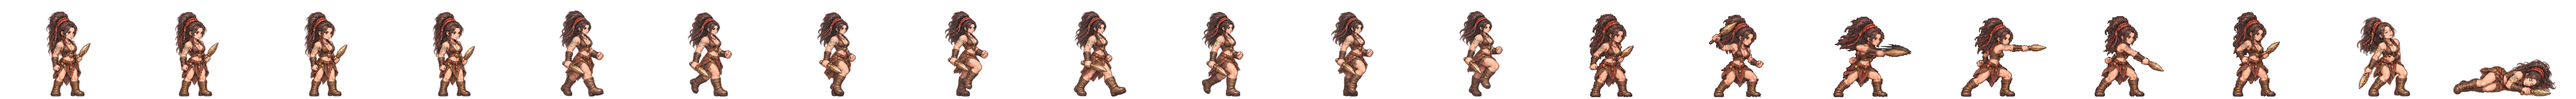
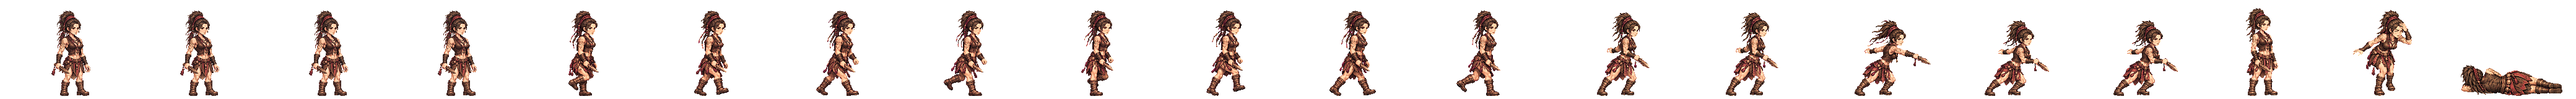
조문 이랑 새 전투 띠를 게임에 넣음(서기·걷기·단검 찌르기 여덟 칸·쓰러짐·칼끝 눌러 보기·맞음 네 칸)
- 내려베기 a 판은 그림 도구가 거절 → b 판 넷으로 여덟 칸(거둔 칸을 당김으로)
- 하네스: 공격 묶음을 서기에 잇는 기준이 맨 끝 칸이라 맞음 칸이 붙은 장수는 넓게 선 칸으로 쟀다 → 공격 끝 칸으로
- regrid-api: 그림 API 가 서기 견본까지 다시 그려 사람이 다섯인 판에서 견본을 맞음 첫 칸으로 넣던 것 → 왼쪽 위 견본을 뺀다
- 다섯째 묶음 넷(소금비·바람·별)의 하네스 줄을 미리 더함

Claude-Session: https://claude.ai/code/session_01TRiuN7s6aDfSnaHxrkctmU

diff --git a/src/realm/data/spritePx.ts b/src/realm/data/spritePx.ts
@@ -1,3 +1,3 @@
 /** public/realm/anim-px/manifest.json 의 사본 — tools/sprite-normalize.mjs 가 만든다 (손으로 고치지 말 것). 칸 [가로, 세로] · feet = 발 줄(칸 위에서 y) · bodyPx = 서 있는 몸 키 */
 import { expandManifest } from './sprite-manifest.ts'
-export const SPRITE_PX: Readonly<Record<string, { readonly cell: readonly [number, number]; readonly feet: number; readonly bodyPx: number; readonly kind: 'general' | 'soldier' | 'folk' | 'crowd'; readonly cells: number }>> = expandManifest<{ readonly cell: readonly [number, number]; readonly feet: number; readonly bodyPx: number; readonly kind: 'general' | 'soldier' | 'folk' | 'crowd'; readonly cells: number }>([{"cell":[166,128],"feet":126,"bodyPx":124,"kind":"soldier","cells":20},{"cell":[116,128],"feet":126,"bodyPx":117,"kind":"soldier","cells":20},{"cell":[127,128],"feet":126,"bodyPx":116,"kind":"soldier","cells":20},{"cell":[269,128],"feet":126,"bodyPx":126,"kind":"soldier","cells":20},{"cell":[503,128],"feet":126,"bodyPx":127,"kind":"soldier","cells":20},{"cell":[614,128],"feet":126,"bodyPx":126,"kind":"soldier","cells":20},{"cell":[200,160],"feet":156,"bodyPx":138,"kind":"general","cells":20},{"cell":[208,160],"feet":155,"bodyPx":138,"kind":"general","cells":20},{"cell":[208,160],"feet":154,"bodyPx":138,"kind":"general","cells":20},{"cell":[304,160],"feet":155,"bodyPx":135,"kind":"general","cells":20},{"cell":[224,160],"feet":156,"bodyPx":139,"kind":"general","cells":20},{"cell":[184,160],"feet":156,"bodyPx":138,"kind":"general","cells":20},{"cell":[208,160],"feet":154,"bodyPx":136,"kind":"general","cells":20},{"cell":[240,160],"feet":156,"bodyPx":138,"kind":"general","cells":20},{"cell":[232,160],"feet":156,"bodyPx":138,"kind":"general","cells":20},{"cell":[208,160],"feet":156,"bodyPx":138,"kind":"general","cells":20},{"cell":[192,160],"feet":156,"bodyPx":138,"kind":"general","cells":20},{"cell":[168,160],"feet":156,"bodyPx":124,"kind":"general","cells":20},{"cell":[216,160],"feet":156,"bodyPx":130,"kind":"general","cells":20},{"cell":[200,160],"feet":156,"bodyPx":116,"kind":"general","cells":20},{"cell":[200,160],"feet":156,"bodyPx":135,"kind":"general","cells":20},{"cell":[280,160],"feet":156,"bodyPx":138,"kind":"general","cells":20},{"cell":[232,160],"feet":155,"bodyPx":138,"kind":"general","cells":20},{"cell":[232,160],"feet":156,"bodyPx":134,"kind":"general","cells":20},{"cell":[144,160],"feet":156,"bodyPx":70,"kind":"general","cells":20},{"cell":[208,160],"feet":156,"bodyPx":70,"kind":"general","cells":20},{"cell":[192,160],"feet":156,"bodyPx":70,"kind":"general","cells":20},{"cell":[240,160],"feet":155,"bodyPx":138,"kind":"general","cells":20},{"cell":[160,160],"feet":156,"bodyPx":135,"kind":"general","cells":20},{"cell":[192,160],"feet":156,"bodyPx":128,"kind":"general","cells":20},{"cell":[224,160],"feet":155,"bodyPx":138,"kind":"general","cells":20},{"cell":[232,160],"feet":156,"bodyPx":139,"kind":"general","cells":20},{"cell":[216,160],"feet":156,"bodyPx":138,"kind":"general","cells":20},{"cell":[208,160],"feet":156,"bodyPx":134,"kind":"general","cells":20},{"cell":[176,160],"feet":156,"bodyPx":130,"kind":"general","cells":20},{"cell":[248,160],"feet":156,"bodyPx":138,"kind":"general","cells":20},{"cell":[248,160],"feet":155,"bodyPx":138,"kind":"general","cells":20},{"cell":[192,160],"feet":155,"bodyPx":138,"kind":"general","cells":20},{"cell":[192,160],"feet":156,"bodyPx":124,"kind":"general","cells":20},{"cell":[208,160],"feet":154,"bodyPx":131,"kind":"general","cells":20},{"cell":[256,160],"feet":156,"bodyPx":138,"kind":"general","cells":20},{"cell":[232,160],"feet":156,"bodyPx":73,"kind":"general","cells":20},{"cell":[256,160],"feet":155,"bodyPx":138,"kind":"general","cells":20},{"cell":[264,160],"feet":156,"bodyPx":138,"kind":"general","cells":20},{"cell":[224,160],"feet":156,"bodyPx":138,"kind":"general","cells":20},{"cell":[224,160],"feet":156,"bodyPx":128,"kind":"general","cells":20},{"cell":[176,160],"feet":156,"bodyPx":129,"kind":"general","cells":20},{"cell":[208,160],"feet":154,"bodyPx":139,"kind":"general","cells":20},{"cell":[208,160],"feet":156,"bodyPx":132,"kind":"general","cells":20},{"cell":[216,160],"feet":155,"bodyPx":138,"kind":"general","cells":20},{"cell":[184,160],"feet":156,"bodyPx":122,"kind":"general","cells":20},{"cell":[176,160],"feet":156,"bodyPx":138,"kind":"general","cells":20},{"cell":[280,160],"feet":155,"bodyPx":133,"kind":"general","cells":20},{"cell":[176,160],"feet":156,"bodyPx":70,"kind":"general","cells":20},{"cell":[186,128],"feet":126,"bodyPx":127,"kind":"soldier","cells":20},{"cell":[298,128],"feet":126,"bodyPx":126,"kind":"soldier","cells":20},{"cell":[82,128],"feet":126,"bodyPx":114,"kind":"folk","cells":8},{"cell":[134,128],"feet":126,"bodyPx":119,"kind":"soldier","cells":20},{"cell":[380,128],"feet":126,"bodyPx":124,"kind":"soldier","cells":20},{"cell":[114,128],"feet":126,"bodyPx":115,"kind":"soldier","cells":20},{"cell":[122,128],"feet":126,"bodyPx":114,"kind":"soldier","cells":20},{"cell":[254,128],"feet":126,"bodyPx":128,"kind":"soldier","cells":20},{"cell":[438,128],"feet":126,"bodyPx":126,"kind":"soldier","cells":20},{"cell":[88,128],"feet":126,"bodyPx":113,"kind":"folk","cells":8},{"cell":[100,128],"feet":126,"bodyPx":115,"kind":"folk","cells":8},{"cell":[108,128],"feet":126,"bodyPx":115,"kind":"folk","cells":8},{"cell":[63,128],"feet":126,"bodyPx":113,"kind":"folk","cells":8},{"cell":[69,96],"feet":96,"bodyPx":96,"kind":"crowd","cells":1},{"cell":[54,96],"feet":96,"bodyPx":96,"kind":"crowd","cells":1},{"cell":[47,96],"feet":96,"bodyPx":96,"kind":"crowd","cells":1},{"cell":[49,96],"feet":96,"bodyPx":96,"kind":"crowd","cells":1},{"cell":[57,96],"feet":96,"bodyPx":96,"kind":"crowd","cells":1},{"cell":[55,96],"feet":96,"bodyPx":96,"kind":"crowd","cells":1},{"cell":[45,96],"feet":96,"bodyPx":96,"kind":"crowd","cells":1},{"cell":[53,96],"feet":96,"bodyPx":96,"kind":"crowd","cells":1},{"cell":[64,96],"feet":96,"bodyPx":96,"kind":"crowd","cells":1},{"cell":[184,160],"feet":156,"bodyPx":124,"kind":"general","cells":20},{"cell":[184,160],"feet":156,"bodyPx":134,"kind":"general","cells":20},{"cell":[224,160],"feet":156,"bodyPx":133,"kind":"general","cells":20},{"cell":[192,160],"feet":156,"bodyPx":135,"kind":"general","cells":20},{"cell":[184,160],"feet":156,"bodyPx":137,"kind":"general","cells":20},{"cell":[216,160],"feet":156,"bodyPx":134,"kind":"general","cells":20},{"cell":[216,160],"feet":156,"bodyPx":132,"kind":"general","cells":20},{"cell":[288,160],"feet":156,"bodyPx":138,"kind":"general","cells":20},{"cell":[192,160],"feet":156,"bodyPx":118,"kind":"general","cells":20},{"cell":[208,160],"feet":154,"bodyPx":134,"kind":"general","cells":20},{"cell":[192,160],"feet":157,"bodyPx":139,"kind":"general","cells":20},{"cell":[184,160],"feet":156,"bodyPx":128,"kind":"general","cells":20},{"cell":[240,160],"feet":156,"bodyPx":128,"kind":"general","cells":20},{"cell":[184,160],"feet":156,"bodyPx":132,"kind":"general","cells":20},{"cell":[208,160],"feet":156,"bodyPx":123,"kind":"general","cells":20},{"cell":[208,160],"feet":154,"bodyPx":137,"kind":"general","cells":20},{"cell":[176,160],"feet":156,"bodyPx":116,"kind":"general","cells":20},{"cell":[272,160],"feet":156,"bodyPx":138,"kind":"general","cells":20},{"cell":[176,160],"feet":156,"bodyPx":122,"kind":"general","cells":20},{"cell":[232,160],"feet":156,"bodyPx":127,"kind":"general","cells":20},{"cell":[168,160],"feet":156,"bodyPx":138,"kind":"general","cells":20},{"cell":[176,160],"feet":156,"bodyPx":137,"kind":"general","cells":20},{"cell":[184,160],"feet":156,"bodyPx":133,"kind":"general","cells":20}],[["axe",0],["bandit-chief",1],["bandit-club",2],["boat",3],["bow",4],["crossbow",5],["gen-adogan",6],["gen-alpyeong",7],["gen-ara",8],["gen-areum",8],["gen-aryeong",9],["gen-bakdal",6],["gen-baram",10],["gen-bdanbi",11],["gen-beom",12],["gen-beombal",8],["gen-beomi",13],["gen-bira",14],["gen-biryu",15],["gen-budeul",8],["gen-byeol",16],["gen-daemusin",17],["gen-daeso",18],["gen-dallae2",11],["gen-dalli",11],["gen-damul",19],["gen-danbi",15],["gen-dangung",16],["gen-darae",20],["gen-dokmudeom",7],["gen-duman",21],["gen-eomni",22],["gen-eureum",23],["gen-g-bow",24],["gen-g-spear",25],["gen-g-sword",26],["gen-gaennae",6],["gen-gamsil",27],["gen-gaon",28],["gen-geota",15],["gen-geumbawi",11],["gen-geumha",29],["gen-goeun",15],["gen-gom",30],["gen-gomok",15],["gen-gureum",27],["gen-guryema",16],["gen-gwaeyu",14],["gen-haebi",8],["gen-haedal",6],["gen-haesol",31],["gen-halla",7],["gen-heo",8],["gen-hneoul",11],["gen-hogong",32],["gen-hojin",15],["gen-horselord",33],["gen-hwalmi",34],["gen-hyeokgeose",16],["gen-hyeopbo",6],["gen-irang",15],["gen-jibaekho",35],["gen-jinha",36],["gen-jita",37],["gen-jumong",38],["gen-keundol",7],["gen-maehwa",39],["gen-maenun",16],["gen-malgalgi",40],["gen-mari",13],["gen-maro",35],["gen-maryeo",15],["gen-mdallae",31],["gen-mir",6],["gen-mount",41],["gen-mulbeom",42],["gen-mulsae",32],["gen-musoe",32],["gen-noeul",8],["gen-nuri",43],["gen-ocheongan",44],["gen-odi",8],["gen-odogan",6],["gen-ogan",16],["gen-oi",45],["gen-olddaeso",23],["gen-onjo",46],["gen-pidogan",15],["gen-sagong",47],["gen-sdallae",6],["gen-sincheongan",32],["gen-singwigan",32],["gen-sinneoul",8],["gen-sobeol",22],["gen-soebi",6],["gen-soebo",48],["gen-soenun",35],["gen-sogeumbi",49],["gen-songbi",44],["gen-songyang",50],["gen-sori",51],["gen-soseono",52],["gen-suro",16],["gen-tahae",6],["gen-tneoul",8],["gen-w-bow",24],["gen-w-spear",53],["gen-waechief",15],["gen-wan",32],["gen-yeodogan",15],["gen-yucheongan",15],["gen-yusugan",35],["horse",54],["marine",55],["migrant",56],["militia",57],["pike",58],["pirate-captain",59],["pirate-sword",60],["shield",61],["spear",62],["villager-builder",63],["villager-farmer",64],["villager-porter",65],["villager-woman",66],["crowd-b1",67],["crowd-b2",68],["crowd-b3",69],["crowd-b4",70],["crowd-b5",71],["crowd-b6",72],["crowd-f1",67],["crowd-f2",72],["crowd-f3",73],["crowd-f4",74],["crowd-f5",67],["crowd-f6",75],["gen-dalbit",15],["gen-base-g-07-drunk-warrior",16],["gen-base-g-40-anya-adan",15],["gen-base-w-13-young-archer",8],["gen-base-g-03-sea-trader",13],["gen-base-w-10-pirate-captain",47],["gen-base-w-64-miri-dallae",47],["gen-base-g-41-goja-bau",13],["gen-base-g-42-dokro-garam",43],["gen-base-g-09-farmer-conscript",32],["gen-base-w-02-goguryeo-lady",32],["gen-base-w-17-mahan-pearl-diver",8],["gen-base-g-17-saro-isageum",48],["gen-base-g-18-daegaya-king",76],["gen-base-g-35-dabeol-dalgu",15],["gen-base-g-19-sabeol-veteran",32],["gen-base-w-23-usisan-whale-queen",8],["gen-base-g-36-gammun-gamdol",44],["gen-base-g-20-samul-sea-lord",40],["gen-base-g-37-eumjeup-jeup",11],["gen-base-g-38-chopal-palmae",16],["gen-base-w-75-daegaya-soemoe",16],["gen-base-g-45-dabeol-deulgae",11],["gen-base-g-04-jinhan-giant",15],["gen-base-g-08-veteran",15],["gen-base-w-18-jinhan-salt-widow",8],["gen-base-w-12-court-dancer",77],["gen-base-w-83-gyeonji-beodeul",78],["gen-base-w-05-baekje-queen",79],["gen-base-w-21-baekje-court-dancer",11],["gen-base-g-01-master-smith",80],["gen-base-g-93-jomun-solgae",34],["gen-base-g-57-bihwa-neup",13],["gen-base-w-72-eumjeup-beol",8],["gen-base-w-102-garak-dana",47],["gen-base-g-68-baekje-onnuri",15],["gen-base-w-27-mokji-jinha",6],["gen-base-g-22-ungcheon-gomnae",6],["gen-base-g-23-sangdang-soedal",15],["gen-base-g-24-wansan-onsan",6],["gen-base-g-25-balla-keunmoe",32],["gen-base-g-61-heomcheuk-bawi",32],["gen-base-g-88-wander-soeul",44],["gen-base-w-14-feast-spy",6],["gen-base-g-12-silla-youth",81],["gen-base-w-08-mahan-warrior",8],["gen-base-g-62-beonye-hanul",13],["gen-base-g-63-heomcheuk-beogeum",15],["gen-base-g-84-wander-seoneul",15],["gen-base-w-50-siljik-mulga",32],["gen-base-g-46-uga-nureongso",32],["gen-base-w-80-usan-gangchi",13],["gen-base-g-47-guga-sanyanggae",32],["gen-base-w-76-gampyeong-baetsagong",8],["gen-base-g-05-mahan-chieftain",82],["gen-base-g-58-usan-uhae",15],["gen-base-g-27-maek-maekdol",15],["gen-base-w-53-hwanna-gabi",47],["gen-base-w-29-golpo-janmul",35],["gen-base-g-53-baekje-haeru",6],["gen-base-w-71-yeonna-neoul",13],["gen-base-w-79-yangmaek-solmae",32],["gen-base-w-34-chopal-deulme",8],["gen-base-g-44-maga-malgup",83],["gen-base-w-31-dabeol-dalbit",47],["gen-base-g-51-biryuna-mulgyeol",44],["gen-base-g-48-gwanna-musoe",15],["gen-base-g-32-uga-sodu",14],["gen-base-g-49-goguryeo-sona",84],["gen-base-g-30-gwanna-soemoe",44],["gen-base-g-52-tamna-oreum",11],["gen-base-g-29-yeonna-myeongsol",38],["gen-base-w-56-dongokjeo-sogeum",85],["gen-base-g-54-mokji-mahan",14],["gen-base-g-33-jeoga-metdol",16],["gen-base-w-36-baekje-maena",8],["gen-base-w-38-sangdang-bulmae",6],["gen-base-w-39-gosaburi-galmae",86],["gen-base-w-40-mujin-munui",48],["gen-base-w-41-hwanna-beodeul",87],["gen-base-w-43-uga-nuri",40],["gen-base-w-45-tamna-oreumbi",11],["gen-base-g-60-golbeol-golgae",11],["gen-base-g-61-apdok-ap",32],["gen-base-g-62-gammun-gamnamu",6],["gen-base-g-63-chopal-yeoul",35],["gen-base-g-64-michuhol-sogeumkkun",13],["gen-base-g-65-sangdang-soemangchi",44],["gen-base-g-66-geonma-malbalgup",88],["gen-base-g-67-gosaburi-buri",89],["gen-base-g-68-mujin-bitgoeul",11],["gen-base-g-69-goryong-yong",44],["gen-base-g-70-siljik-pado",13],["gen-base-w-81-byeokjin-byeolbit",14],["gen-base-w-46-geonma-maru",35],["gen-base-w-48-mujin-mudeung",13],["gen-base-g-26-gampyeong-gaetbeol",14],["gen-base-g-60-eupcha-hangyeol",90],["gen-base-g-15-shaman-man",32],["gen-base-g-85-wander-ure",35],["gen-base-g-43-hwanna-amnok",15],["gen-base-g-50-bullae-gwaha",79],["gen-base-g-55-saro-bakdal",15],["gen-base-g-56-haseulla-gwahama",6],["gen-base-w-06-buyeo-huntress",91],["gen-base-w-22-dongye-tiger-huntress",8],["gen-base-w-25-bihwa-priestess",32],["gen-base-w-24-apdok-queen",11],["gen-base-w-61-iseo-sinae",15],["gen-base-w-26-iseo-tomboy-general",8],["gen-base-g-59-yangmaek-maekson",92],["gen-aw1-haebi",44],["gen-aw1-soseono",93],["gen-aw1-gamsil",11],["gen-aw1-mir",51],["gen-aw1-dangung",6],["gen-aw1-ara",44],["gen-aw1-jumong",94],["gen-aw1-onjo",95],["gen-aw1-base-w-83-gyeonji-beodeul",16],["gen-aw1-heo",43],["gen-aw1-base-g-38-chopal-palmae",6],["gen-aw1-base-w-25-bihwa-priestess",77],["gen-aw1-sori",96],["gen-aw1-gomok",6],["gen-aw1-irang",16],["gen-aw1-budeul",96],["gen-aw1-gom",13],["gen-aw1-sdallae",6],["gen-aw1-base-w-13-young-archer",6],["gen-aw1-base-w-36-baekje-maena",97],["gen-aw1-base-g-09-farmer-conscript",43],["gen-aw1-base-w-02-goguryeo-lady",98],["gen-aw1-haedal",11],["gen-aw1-hogong",6],["gen-aw1-maehwa",51],["gen-aw1-base-w-06-buyeo-huntress",14],["gen-aw1-base-w-08-mahan-warrior",44],["gen-aw1-base-w-29-golpo-janmul",44],["gen-aw1-base-w-31-dabeol-dalbit",16],["gen-aw1-base-w-38-sangdang-bulmae",96],["gen-aw1-bira",32],["gen-aw1-base-w-53-hwanna-gabi",96],["gen-aw1-base-w-56-dongokjeo-sogeum",51],["gen-aw1-base-w-72-eumjeup-beol",16],["gen-aw1-bdanbi",96],["gen-aw1-beom",11],["gen-aw1-beombal",11],["gen-aw1-byeol",16],["gen-aw1-dalli",51],["gen-aw1-malgalgi",35],["gen-aw1-sincheongan",32]])
+export const SPRITE_PX: Readonly<Record<string, { readonly cell: readonly [number, number]; readonly feet: number; readonly bodyPx: number; readonly kind: 'general' | 'soldier' | 'folk' | 'crowd'; readonly cells: number }>> = expandManifest<{ readonly cell: readonly [number, number]; readonly feet: number; readonly bodyPx: number; readonly kind: 'general' | 'soldier' | 'folk' | 'crowd'; readonly cells: number }>([{"cell":[166,128],"feet":126,"bodyPx":124,"kind":"soldier","cells":20},{"cell":[116,128],"feet":126,"bodyPx":117,"kind":"soldier","cells":20},{"cell":[127,128],"feet":126,"bodyPx":116,"kind":"soldier","cells":20},{"cell":[269,128],"feet":126,"bodyPx":126,"kind":"soldier","cells":20},{"cell":[503,128],"feet":126,"bodyPx":127,"kind":"soldier","cells":20},{"cell":[614,128],"feet":126,"bodyPx":126,"kind":"soldier","cells":20},{"cell":[200,160],"feet":156,"bodyPx":138,"kind":"general","cells":20},{"cell":[208,160],"feet":155,"bodyPx":138,"kind":"general","cells":20},{"cell":[208,160],"feet":154,"bodyPx":138,"kind":"general","cells":20},{"cell":[304,160],"feet":155,"bodyPx":135,"kind":"general","cells":20},{"cell":[224,160],"feet":156,"bodyPx":139,"kind":"general","cells":20},{"cell":[184,160],"feet":156,"bodyPx":138,"kind":"general","cells":20},{"cell":[208,160],"feet":154,"bodyPx":136,"kind":"general","cells":20},{"cell":[240,160],"feet":156,"bodyPx":138,"kind":"general","cells":20},{"cell":[232,160],"feet":156,"bodyPx":138,"kind":"general","cells":20},{"cell":[208,160],"feet":156,"bodyPx":138,"kind":"general","cells":20},{"cell":[192,160],"feet":156,"bodyPx":138,"kind":"general","cells":20},{"cell":[168,160],"feet":156,"bodyPx":124,"kind":"general","cells":20},{"cell":[216,160],"feet":156,"bodyPx":130,"kind":"general","cells":20},{"cell":[200,160],"feet":156,"bodyPx":116,"kind":"general","cells":20},{"cell":[200,160],"feet":156,"bodyPx":135,"kind":"general","cells":20},{"cell":[280,160],"feet":156,"bodyPx":138,"kind":"general","cells":20},{"cell":[232,160],"feet":155,"bodyPx":138,"kind":"general","cells":20},{"cell":[232,160],"feet":156,"bodyPx":134,"kind":"general","cells":20},{"cell":[144,160],"feet":156,"bodyPx":70,"kind":"general","cells":20},{"cell":[208,160],"feet":156,"bodyPx":70,"kind":"general","cells":20},{"cell":[192,160],"feet":156,"bodyPx":70,"kind":"general","cells":20},{"cell":[240,160],"feet":155,"bodyPx":138,"kind":"general","cells":20},{"cell":[160,160],"feet":156,"bodyPx":135,"kind":"general","cells":20},{"cell":[192,160],"feet":156,"bodyPx":128,"kind":"general","cells":20},{"cell":[224,160],"feet":155,"bodyPx":138,"kind":"general","cells":20},{"cell":[232,160],"feet":156,"bodyPx":139,"kind":"general","cells":20},{"cell":[216,160],"feet":156,"bodyPx":138,"kind":"general","cells":20},{"cell":[208,160],"feet":156,"bodyPx":134,"kind":"general","cells":20},{"cell":[176,160],"feet":156,"bodyPx":130,"kind":"general","cells":20},{"cell":[248,160],"feet":156,"bodyPx":138,"kind":"general","cells":20},{"cell":[248,160],"feet":155,"bodyPx":138,"kind":"general","cells":20},{"cell":[192,160],"feet":155,"bodyPx":138,"kind":"general","cells":20},{"cell":[192,160],"feet":156,"bodyPx":124,"kind":"general","cells":20},{"cell":[208,160],"feet":154,"bodyPx":131,"kind":"general","cells":20},{"cell":[256,160],"feet":156,"bodyPx":138,"kind":"general","cells":20},{"cell":[232,160],"feet":156,"bodyPx":73,"kind":"general","cells":20},{"cell":[256,160],"feet":155,"bodyPx":138,"kind":"general","cells":20},{"cell":[264,160],"feet":156,"bodyPx":138,"kind":"general","cells":20},{"cell":[224,160],"feet":156,"bodyPx":138,"kind":"general","cells":20},{"cell":[224,160],"feet":156,"bodyPx":128,"kind":"general","cells":20},{"cell":[176,160],"feet":156,"bodyPx":129,"kind":"general","cells":20},{"cell":[208,160],"feet":154,"bodyPx":139,"kind":"general","cells":20},{"cell":[208,160],"feet":156,"bodyPx":132,"kind":"general","cells":20},{"cell":[216,160],"feet":155,"bodyPx":138,"kind":"general","cells":20},{"cell":[184,160],"feet":156,"bodyPx":122,"kind":"general","cells":20},{"cell":[176,160],"feet":156,"bodyPx":138,"kind":"general","cells":20},{"cell":[280,160],"feet":155,"bodyPx":133,"kind":"general","cells":20},{"cell":[176,160],"feet":156,"bodyPx":70,"kind":"general","cells":20},{"cell":[186,128],"feet":126,"bodyPx":127,"kind":"soldier","cells":20},{"cell":[298,128],"feet":126,"bodyPx":126,"kind":"soldier","cells":20},{"cell":[82,128],"feet":126,"bodyPx":114,"kind":"folk","cells":8},{"cell":[134,128],"feet":126,"bodyPx":119,"kind":"soldier","cells":20},{"cell":[380,128],"feet":126,"bodyPx":124,"kind":"soldier","cells":20},{"cell":[114,128],"feet":126,"bodyPx":115,"kind":"soldier","cells":20},{"cell":[122,128],"feet":126,"bodyPx":114,"kind":"soldier","cells":20},{"cell":[254,128],"feet":126,"bodyPx":128,"kind":"soldier","cells":20},{"cell":[438,128],"feet":126,"bodyPx":126,"kind":"soldier","cells":20},{"cell":[88,128],"feet":126,"bodyPx":113,"kind":"folk","cells":8},{"cell":[100,128],"feet":126,"bodyPx":115,"kind":"folk","cells":8},{"cell":[108,128],"feet":126,"bodyPx":115,"kind":"folk","cells":8},{"cell":[63,128],"feet":126,"bodyPx":113,"kind":"folk","cells":8},{"cell":[69,96],"feet":96,"bodyPx":96,"kind":"crowd","cells":1},{"cell":[54,96],"feet":96,"bodyPx":96,"kind":"crowd","cells":1},{"cell":[47,96],"feet":96,"bodyPx":96,"kind":"crowd","cells":1},{"cell":[49,96],"feet":96,"bodyPx":96,"kind":"crowd","cells":1},{"cell":[57,96],"feet":96,"bodyPx":96,"kind":"crowd","cells":1},{"cell":[55,96],"feet":96,"bodyPx":96,"kind":"crowd","cells":1},{"cell":[45,96],"feet":96,"bodyPx":96,"kind":"crowd","cells":1},{"cell":[53,96],"feet":96,"bodyPx":96,"kind":"crowd","cells":1},{"cell":[64,96],"feet":96,"bodyPx":96,"kind":"crowd","cells":1},{"cell":[184,160],"feet":156,"bodyPx":124,"kind":"general","cells":20},{"cell":[184,160],"feet":156,"bodyPx":134,"kind":"general","cells":20},{"cell":[224,160],"feet":156,"bodyPx":133,"kind":"general","cells":20},{"cell":[192,160],"feet":156,"bodyPx":135,"kind":"general","cells":20},{"cell":[184,160],"feet":156,"bodyPx":137,"kind":"general","cells":20},{"cell":[216,160],"feet":156,"bodyPx":134,"kind":"general","cells":20},{"cell":[216,160],"feet":156,"bodyPx":132,"kind":"general","cells":20},{"cell":[288,160],"feet":156,"bodyPx":138,"kind":"general","cells":20},{"cell":[192,160],"feet":156,"bodyPx":118,"kind":"general","cells":20},{"cell":[208,160],"feet":154,"bodyPx":134,"kind":"general","cells":20},{"cell":[192,160],"feet":157,"bodyPx":139,"kind":"general","cells":20},{"cell":[184,160],"feet":156,"bodyPx":128,"kind":"general","cells":20},{"cell":[240,160],"feet":156,"bodyPx":128,"kind":"general","cells":20},{"cell":[184,160],"feet":156,"bodyPx":132,"kind":"general","cells":20},{"cell":[208,160],"feet":156,"bodyPx":123,"kind":"general","cells":20},{"cell":[208,160],"feet":154,"bodyPx":137,"kind":"general","cells":20},{"cell":[176,160],"feet":156,"bodyPx":116,"kind":"general","cells":20},{"cell":[272,160],"feet":156,"bodyPx":138,"kind":"general","cells":20},{"cell":[176,160],"feet":156,"bodyPx":122,"kind":"general","cells":20},{"cell":[232,160],"feet":156,"bodyPx":127,"kind":"general","cells":20},{"cell":[168,160],"feet":156,"bodyPx":138,"kind":"general","cells":20},{"cell":[176,160],"feet":156,"bodyPx":137,"kind":"general","cells":20},{"cell":[184,160],"feet":156,"bodyPx":133,"kind":"general","cells":20}],[["axe",0],["bandit-chief",1],["bandit-club",2],["boat",3],["bow",4],["crossbow",5],["gen-adogan",6],["gen-alpyeong",7],["gen-ara",8],["gen-areum",8],["gen-aryeong",9],["gen-bakdal",6],["gen-baram",10],["gen-bdanbi",11],["gen-beom",12],["gen-beombal",8],["gen-beomi",13],["gen-bira",14],["gen-biryu",15],["gen-budeul",8],["gen-byeol",16],["gen-daemusin",17],["gen-daeso",18],["gen-dallae2",11],["gen-dalli",11],["gen-damul",19],["gen-danbi",15],["gen-dangung",16],["gen-darae",20],["gen-dokmudeom",7],["gen-duman",21],["gen-eomni",22],["gen-eureum",23],["gen-g-bow",24],["gen-g-spear",25],["gen-g-sword",26],["gen-gaennae",6],["gen-gamsil",27],["gen-gaon",28],["gen-geota",15],["gen-geumbawi",11],["gen-geumha",29],["gen-goeun",15],["gen-gom",30],["gen-gomok",15],["gen-gureum",27],["gen-guryema",16],["gen-gwaeyu",14],["gen-haebi",8],["gen-haedal",6],["gen-haesol",31],["gen-halla",7],["gen-heo",8],["gen-hneoul",11],["gen-hogong",32],["gen-hojin",15],["gen-horselord",33],["gen-hwalmi",34],["gen-hyeokgeose",16],["gen-hyeopbo",6],["gen-irang",8],["gen-jibaekho",35],["gen-jinha",36],["gen-jita",37],["gen-jumong",38],["gen-keundol",7],["gen-maehwa",39],["gen-maenun",16],["gen-malgalgi",40],["gen-mari",13],["gen-maro",35],["gen-maryeo",15],["gen-mdallae",31],["gen-mir",6],["gen-mount",41],["gen-mulbeom",42],["gen-mulsae",32],["gen-musoe",32],["gen-noeul",8],["gen-nuri",43],["gen-ocheongan",44],["gen-odi",8],["gen-odogan",6],["gen-ogan",16],["gen-oi",45],["gen-olddaeso",23],["gen-onjo",46],["gen-pidogan",15],["gen-sagong",47],["gen-sdallae",6],["gen-sincheongan",32],["gen-singwigan",32],["gen-sinneoul",8],["gen-sobeol",22],["gen-soebi",6],["gen-soebo",48],["gen-soenun",35],["gen-sogeumbi",49],["gen-songbi",44],["gen-songyang",50],["gen-sori",51],["gen-soseono",52],["gen-suro",16],["gen-tahae",6],["gen-tneoul",8],["gen-w-bow",24],["gen-w-spear",53],["gen-waechief",15],["gen-wan",32],["gen-yeodogan",15],["gen-yucheongan",15],["gen-yusugan",35],["horse",54],["marine",55],["migrant",56],["militia",57],["pike",58],["pirate-captain",59],["pirate-sword",60],["shield",61],["spear",62],["villager-builder",63],["villager-farmer",64],["villager-porter",65],["villager-woman",66],["crowd-b1",67],["crowd-b2",68],["crowd-b3",69],["crowd-b4",70],["crowd-b5",71],["crowd-b6",72],["crowd-f1",67],["crowd-f2",72],["crowd-f3",73],["crowd-f4",74],["crowd-f5",67],["crowd-f6",75],["gen-dalbit",15],["gen-base-g-07-drunk-warrior",16],["gen-base-g-40-anya-adan",15],["gen-base-w-13-young-archer",8],["gen-base-g-03-sea-trader",13],["gen-base-w-10-pirate-captain",47],["gen-base-w-64-miri-dallae",47],["gen-base-g-41-goja-bau",13],["gen-base-g-42-dokro-garam",43],["gen-base-g-09-farmer-conscript",32],["gen-base-w-02-goguryeo-lady",32],["gen-base-w-17-mahan-pearl-diver",8],["gen-base-g-17-saro-isageum",48],["gen-base-g-18-daegaya-king",76],["gen-base-g-35-dabeol-dalgu",15],["gen-base-g-19-sabeol-veteran",32],["gen-base-w-23-usisan-whale-queen",8],["gen-base-g-36-gammun-gamdol",44],["gen-base-g-20-samul-sea-lord",40],["gen-base-g-37-eumjeup-jeup",11],["gen-base-g-38-chopal-palmae",16],["gen-base-w-75-daegaya-soemoe",16],["gen-base-g-45-dabeol-deulgae",11],["gen-base-g-04-jinhan-giant",15],["gen-base-g-08-veteran",15],["gen-base-w-18-jinhan-salt-widow",8],["gen-base-w-12-court-dancer",77],["gen-base-w-83-gyeonji-beodeul",78],["gen-base-w-05-baekje-queen",79],["gen-base-w-21-baekje-court-dancer",11],["gen-base-g-01-master-smith",80],["gen-base-g-93-jomun-solgae",34],["gen-base-g-57-bihwa-neup",13],["gen-base-w-72-eumjeup-beol",8],["gen-base-w-102-garak-dana",47],["gen-base-g-68-baekje-onnuri",15],["gen-base-w-27-mokji-jinha",6],["gen-base-g-22-ungcheon-gomnae",6],["gen-base-g-23-sangdang-soedal",15],["gen-base-g-24-wansan-onsan",6],["gen-base-g-25-balla-keunmoe",32],["gen-base-g-61-heomcheuk-bawi",32],["gen-base-g-88-wander-soeul",44],["gen-base-w-14-feast-spy",6],["gen-base-g-12-silla-youth",81],["gen-base-w-08-mahan-warrior",8],["gen-base-g-62-beonye-hanul",13],["gen-base-g-63-heomcheuk-beogeum",15],["gen-base-g-84-wander-seoneul",15],["gen-base-w-50-siljik-mulga",32],["gen-base-g-46-uga-nureongso",32],["gen-base-w-80-usan-gangchi",13],["gen-base-g-47-guga-sanyanggae",32],["gen-base-w-76-gampyeong-baetsagong",8],["gen-base-g-05-mahan-chieftain",82],["gen-base-g-58-usan-uhae",15],["gen-base-g-27-maek-maekdol",15],["gen-base-w-53-hwanna-gabi",47],["gen-base-w-29-golpo-janmul",35],["gen-base-g-53-baekje-haeru",6],["gen-base-w-71-yeonna-neoul",13],["gen-base-w-79-yangmaek-solmae",32],["gen-base-w-34-chopal-deulme",8],["gen-base-g-44-maga-malgup",83],["gen-base-w-31-dabeol-dalbit",47],["gen-base-g-51-biryuna-mulgyeol",44],["gen-base-g-48-gwanna-musoe",15],["gen-base-g-32-uga-sodu",14],["gen-base-g-49-goguryeo-sona",84],["gen-base-g-30-gwanna-soemoe",44],["gen-base-g-52-tamna-oreum",11],["gen-base-g-29-yeonna-myeongsol",38],["gen-base-w-56-dongokjeo-sogeum",85],["gen-base-g-54-mokji-mahan",14],["gen-base-g-33-jeoga-metdol",16],["gen-base-w-36-baekje-maena",8],["gen-base-w-38-sangdang-bulmae",6],["gen-base-w-39-gosaburi-galmae",86],["gen-base-w-40-mujin-munui",48],["gen-base-w-41-hwanna-beodeul",87],["gen-base-w-43-uga-nuri",40],["gen-base-w-45-tamna-oreumbi",11],["gen-base-g-60-golbeol-golgae",11],["gen-base-g-61-apdok-ap",32],["gen-base-g-62-gammun-gamnamu",6],["gen-base-g-63-chopal-yeoul",35],["gen-base-g-64-michuhol-sogeumkkun",13],["gen-base-g-65-sangdang-soemangchi",44],["gen-base-g-66-geonma-malbalgup",88],["gen-base-g-67-gosaburi-buri",89],["gen-base-g-68-mujin-bitgoeul",11],["gen-base-g-69-goryong-yong",44],["gen-base-g-70-siljik-pado",13],["gen-base-w-81-byeokjin-byeolbit",14],["gen-base-w-46-geonma-maru",35],["gen-base-w-48-mujin-mudeung",13],["gen-base-g-26-gampyeong-gaetbeol",14],["gen-base-g-60-eupcha-hangyeol",90],["gen-base-g-15-shaman-man",32],["gen-base-g-85-wander-ure",35],["gen-base-g-43-hwanna-amnok",15],["gen-base-g-50-bullae-gwaha",79],["gen-base-g-55-saro-bakdal",15],["gen-base-g-56-haseulla-gwahama",6],["gen-base-w-06-buyeo-huntress",91],["gen-base-w-22-dongye-tiger-huntress",8],["gen-base-w-25-bihwa-priestess",32],["gen-base-w-24-apdok-queen",11],["gen-base-w-61-iseo-sinae",15],["gen-base-w-26-iseo-tomboy-general",8],["gen-base-g-59-yangmaek-maekson",92],["gen-aw1-haebi",44],["gen-aw1-soseono",93],["gen-aw1-gamsil",11],["gen-aw1-mir",51],["gen-aw1-dangung",6],["gen-aw1-ara",44],["gen-aw1-jumong",94],["gen-aw1-onjo",95],["gen-aw1-base-w-83-gyeonji-beodeul",16],["gen-aw1-heo",43],["gen-aw1-base-g-38-chopal-palmae",6],["gen-aw1-base-w-25-bihwa-priestess",77],["gen-aw1-sori",96],["gen-aw1-gomok",6],["gen-aw1-irang",16],["gen-aw1-budeul",96],["gen-aw1-gom",13],["gen-aw1-sdallae",6],["gen-aw1-base-w-13-young-archer",6],["gen-aw1-base-w-36-baekje-maena",97],["gen-aw1-base-g-09-farmer-conscript",43],["gen-aw1-base-w-02-goguryeo-lady",98],["gen-aw1-haedal",11],["gen-aw1-hogong",6],["gen-aw1-maehwa",51],["gen-aw1-base-w-06-buyeo-huntress",14],["gen-aw1-base-w-08-mahan-warrior",44],["gen-aw1-base-w-29-golpo-janmul",44],["gen-aw1-base-w-31-dabeol-dalbit",16],["gen-aw1-base-w-38-sangdang-bulmae",96],["gen-aw1-bira",32],["gen-aw1-base-w-53-hwanna-gabi",96],["gen-aw1-base-w-56-dongokjeo-sogeum",51],["gen-aw1-base-w-72-eumjeup-beol",16],["gen-aw1-bdanbi",96],["gen-aw1-beom",11],["gen-aw1-beombal",11],["gen-aw1-byeol",16],["gen-aw1-dalli",51],["gen-aw1-malgalgi",35],["gen-aw1-sincheongan",32]])

diff --git a/src/duel/view.ts b/src/duel/view.ts
@@ -100,7 +100,7 @@ const crowdFront = [1, 2, 3, 4, 5, 6].map((i) => img(`realm/duel/crowd/b${i}.png
 const crowdReady = (set: HTMLImageElement[]): boolean => set.every((im) => im.complete && im.naturalWidth > 0)
 const pxMode = cfg.px !== false && params.get('px') !== '0'
 /** 겨루기 전용 옛 띠(duel/sprites) 대신 열전과 같은 도트 띠(anim-px)를 쓰는 장수 — 두 판에서 같은 모습 · 서기 계획·쓰러지는 칸도 같다 (11-23 범 · 매화 · 달빛 · 11-24 해비 · 아룸) */
-const PX_DUEL: ReadonlySet<string> = new Set(['beom', 'maehwa', 'base-w-31-dabeol-dalbit', 'haebi', 'areum', 'base-w-13-young-archer', 'base-w-10-pirate-captain', 'base-w-17-mahan-pearl-diver', 'base-w-06-buyeo-huntress', 'base-w-64-miri-dallae', 'ara', 'base-w-22-dongye-tiger-huntress', 'noeul', 'sagong', 'sinneoul', 'heo', 'base-w-08-mahan-warrior', 'base-w-23-usisan-whale-queen', 'base-w-26-iseo-tomboy-general', 'base-w-72-eumjeup-beol', 'tneoul', 'odi', 'base-w-76-gampyeong-baetsagong', 'base-w-34-chopal-deulme', 'base-w-102-garak-dana', 'base-w-36-baekje-maena', 'base-w-56-dongokjeo-sogeum', 'budeul', 'base-w-53-hwanna-gabi', 'base-w-18-jinhan-salt-widow', 'beombal'])
+const PX_DUEL: ReadonlySet<string> = new Set(['beom', 'maehwa', 'base-w-31-dabeol-dalbit', 'haebi', 'areum', 'base-w-13-young-archer', 'base-w-10-pirate-captain', 'base-w-17-mahan-pearl-diver', 'base-w-06-buyeo-huntress', 'base-w-64-miri-dallae', 'ara', 'base-w-22-dongye-tiger-huntress', 'noeul', 'sagong', 'sinneoul', 'heo', 'base-w-08-mahan-warrior', 'base-w-23-usisan-whale-queen', 'base-w-26-iseo-tomboy-general', 'base-w-72-eumjeup-beol', 'tneoul', 'odi', 'base-w-76-gampyeong-baetsagong', 'base-w-34-chopal-deulme', 'base-w-102-garak-dana', 'base-w-36-baekje-maena', 'base-w-56-dongokjeo-sogeum', 'budeul', 'base-w-53-hwanna-gabi', 'base-w-18-jinhan-salt-widow', 'beombal', 'irang'])
 /** 띠 그림 — 기본은 anim-px(도트 규격) 먼저, 없으면 옛 띠로 (img 의 onerror 가 갈아 끼운다) */
 const strip = (s: string): HTMLImageElement => pxMode
   ? DUEL_ATLASES[s] !== undefined && !PX_DUEL.has(s) ? img(`realm/duel/sprites/gen-${s}.png`, `realm/anim-px/gen-${s}.png`)

diff --git a/src/tune/params.ts b/src/tune/params.ts
@@ -1450,6 +1450,7 @@ export const HAEBI_IDLE = {
     'base-w-53-hwanna-gabi': { cells: 38, base: [0, 1], hold: 2.4, fall: [18, 20, 21, 19], quirk: [22, 23, 24, 25], quirkTimes: [.3, .32, .4, .28], attack: { cells: [26, 27, 28, 29, 30, 31, 32, 33], times: [.09, .08, .11, .05, .15, .07, .08, .12], hit: 4 }, hurt: [34, 35], rise: [36, 37], xGeom: { h: 224, root: 92, foot: 216 } },
     'base-w-18-jinhan-salt-widow': { cells: 38, base: [0, 1], hold: 2.4, fall: [18, 20, 21, 19], quirk: [22, 23, 24, 25], quirkTimes: [.3, .32, .4, .28], attack: { cells: [26, 27, 28, 29, 30, 31, 32, 33], times: [.09, .08, .11, .05, .15, .07, .08, .12], hit: 4 }, hurt: [34, 35], rise: [36, 37], xGeom: { h: 224, root: 92, foot: 216 } },
     beombal: { cells: 38, base: [0, 1], hold: 2.4, fall: [18, 20, 21, 19], quirk: [22, 23, 24, 25], quirkTimes: [.3, .32, .4, .28], attack: { cells: [26, 27, 28, 29, 30, 31, 32, 33], times: [.09, .08, .11, .05, .15, .07, .08, .12], hit: 4 }, hurt: [34, 35], rise: [36, 37], xGeom: { h: 224, root: 92, foot: 216 } },
+    irang: { cells: 38, base: [0, 1], hold: 2.4, fall: [18, 20, 21, 19], quirk: [22, 23, 24, 25], quirkTimes: [.3, .32, .4, .28], attack: { cells: [26, 27, 28, 29, 30, 31, 32, 33], times: [.08, .09, .09, .05, .15, .08, .09, .12], hit: 3 }, hurt: [34, 35], rise: [36, 37], xGeom: { h: 224, root: 92, foot: 216 } },
   },
 } as const
 export const HAEBI_ANIM = {

diff --git a/src/raid/hero-hd.ts b/src/raid/hero-hd.ts
@@ -67,7 +67,6 @@ export const HERO_HD: Readonly<Record<string, string>> = {
   'anim-px/gen-aw1-irang.png': 'anim-px/gen-aw1-irang_hd.png',
   'anim-px/gen-aw1-haedal.png': 'anim-px/gen-aw1-haedal_hd.png',
   'anim-px/gen-hojin.png': 'anim-px/gen-hojin_hd.png',
-  'anim-px/gen-irang.png': 'anim-px/gen-irang_hd.png',
   'anim-px/gen-haedal.png': 'anim-px/gen-haedal_hd.png',
   'anim-px/gen-aw1-ara.png': 'anim-px/gen-aw1-ara_hd.png',
   'anim-px/gen-jinha.png': 'anim-px/gen-jinha_hd.png',

diff --git a/tools/sprite-kit/anim-harness.py b/tools/sprite-kit/anim-harness.py
@@ -68,6 +68,10 @@ HEROES = {
     'gabi': dict(hit=True, strip='gen-base-w-53-hwanna-gabi', atk='slash', atk8=True, act=True, legacy=(('a', 1), ('a', 3), ('b', 2), ('b', 4))),   # 환나 가비(단검 · 가슴 L)
     'saltw': dict(hit=True, strip='gen-base-w-18-jinhan-salt-widow', atk='slash', atk8=True, act=True, legacy=(('a', 1), ('a', 3), ('b', 2), ('b', 4))),   # 진한 소금 과부(단검 · 가슴 XL)
     'beombal': dict(hit=True, strip='gen-beombal', atk='slash', atk8=True, act=True, legacy=(('a', 1), ('a', 3), ('b', 2), ('b', 4))),   # 맥 범발(단검 · 가슴 M)
+    'irang': dict(hit=True, strip='gen-irang', atk='slash', atk8=True, act=True, legacy=(('b', 3), ('b', 1), ('b', 2), ('b', 4)), cells8=[('b', 4), ('b', 3), ('b', 3), ('b', 1), ('b', 1), ('b', 2), ('b', 3), ('b', 4)]),   # 조문 이랑(단검 · 가슴 M) · 내려베기 a 판은 그림 도구가 거절 → b 판 넷으로 여덟 칸(거둠 칸을 당김으로 · 찌르는 칸 넷째)
+    'sogeumbi': dict(strip='gen-sogeumbi', atk='slash', atk8=True, act=True, legacy=(('a', 1), ('a', 3), ('b', 2), ('b', 4))),   # 옥저 소금비(한 손 칼 · 가슴 M)
+    'baram': dict(strip='gen-baram', atk='slash', atk8=True, act=True, legacy=(('a', 1), ('a', 3), ('b', 2), ('b', 4))),   # 고사부리 바람(단검 · 가슴 M)
+    'byeol': dict(strip='gen-byeol', atk='slash', atk8=True, act=True, legacy=(('a', 1), ('a', 3), ('b', 2), ('b', 4))),   # 벽진 별(한 손 칼 · 가슴 M · 달군 칼날은 불빛 없이)
     'haebi': dict(hit=True, strip='gen-haebi', atk='chop', atk8=True, act=True),   # act = 공격 여덟 칸이 넓은 동작 칸(240×224 · 뿌리 92 · 발 줄 216)
     'areum': dict(hit=True, strip='gen-areum', atk='slam', atk8=True, act=True, lock='none'),   # 받은 그림 그대로(얼굴을 떠다 붙이지 않는다 — 11-24: 뭉친 얼굴이 여덟 칸에 퍼졌다) · 옛 lock='face': 메가 머리 뒤로 지나간다 — 머리 상자는 메를 자르고(「포스터」), 윗몸을 통째로 묶으면 떠다닌다(11-24 형) → 얼굴 안쪽만 묶는다
 }
@@ -302,7 +306,7 @@ def strip_act(name, install=False):
     #   서기 → 공격 첫 칸 · 공격 끝 칸 → 서기에서 몸이 9~16px 옆으로 튀었다(해비 15 · 사냥꾼 16 · 해녀 15). 여덟 칸을 **같은 만큼** 옮겨
     #   끝 칸(거둔 자세)의 윗몸을 서기에 맞춘다 — 여덟 칸 사이의 앞발 고정은 그대로다. 좁은 칸 공격(12~17)도 같은 만큼.
     st_act = to_act(e.crop((0, 0, CW, CH)))
-    d = -_reg(_upper(xs[-1]), _upper(st_act))
+    d = -_reg(_upper(xs[A8][-1]), _upper(st_act))   # 공격 끝 칸 — xs[-1] 은 맞음 칸이 붙으면 넓게 선 칸이 된다(11-24 이랑: 끝 칸 윗몸 -18px)
     narrow = [e.crop((i * CW, 0, (i + 1) * CW, CH)) for i in range(12, 18)]
     lo = max(-min(_room(c)[0] for c in xs[A8] + narrow), -40)
     hi = min(min(_room(c)[1] for c in xs[A8] + narrow), 40)

diff --git a/tools/sprite-kit/regrid-api.py b/tools/sprite-kit/regrid-api.py
@@ -76,6 +76,12 @@ def main(argv):
     if not os.path.exists(raw) and kept(bl, W, H):
         print('자리를 지킨 판 — 그대로', out)
         return
+    big = [b for b in bl[:5] if b['n'] > bl[0]['n'] * .3]
+    if len(big) >= 5:   # 서기 견본까지 다시 그려 사람이 다섯(11-24 별): 왼쪽 위의 견본을 뺀다(한 무릎 칸이 왼쪽 아래에 오기도 해 kept 가 못 본다)
+        refs = [b for b in big if b['cx'] < W / 3 and b['cy'] < H / 2]
+        if len(refs) == 1:
+            bl = [b for b in bl if b is not refs[0]]
+            print('서기 견본까지 다시 그린 판 — 왼쪽 위 견본은 뺌')
     figs = bl[:4]
     if len(figs) < 4:
         raise SystemExit(f'사람을 넷 못 찾음({len(figs)})')
